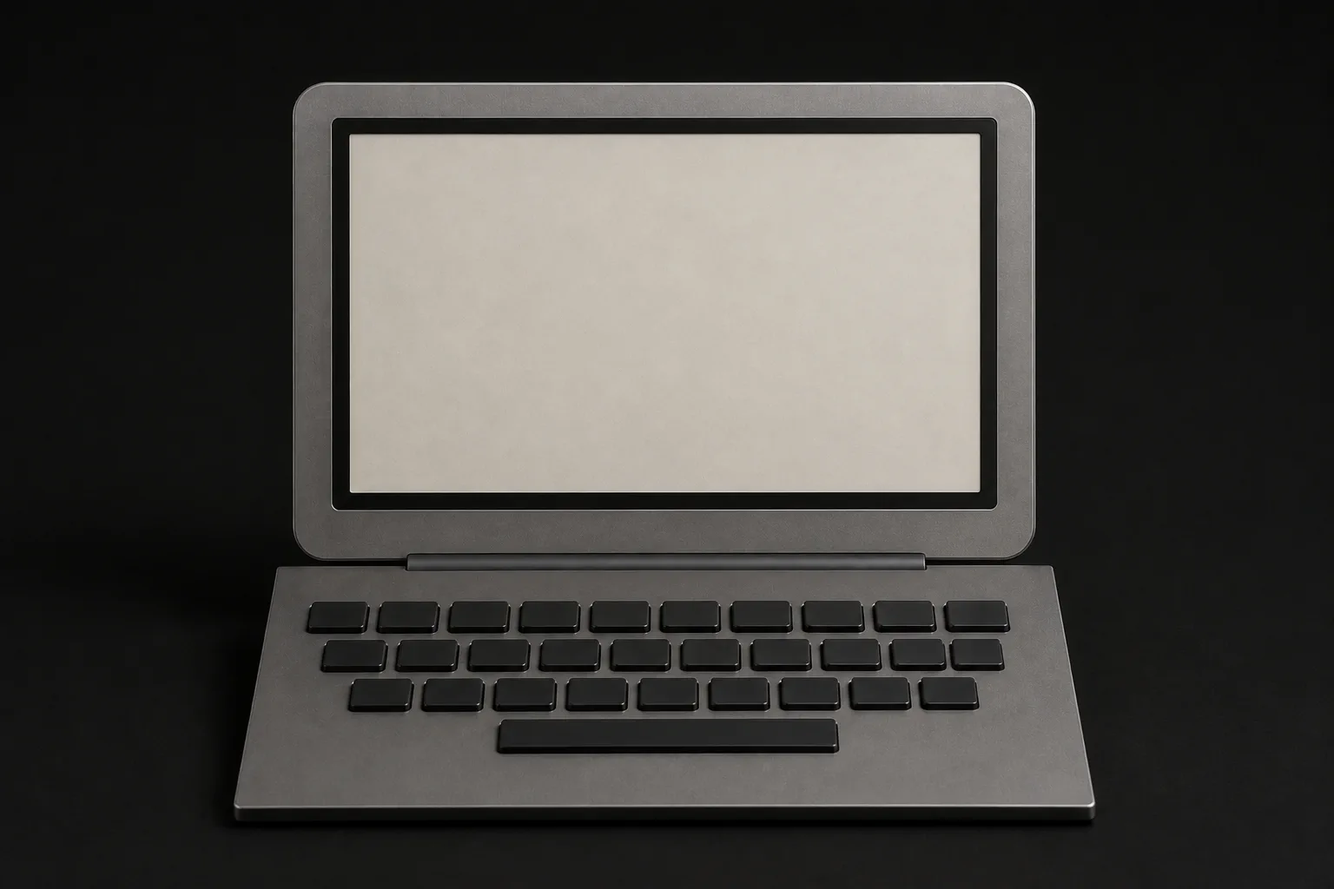
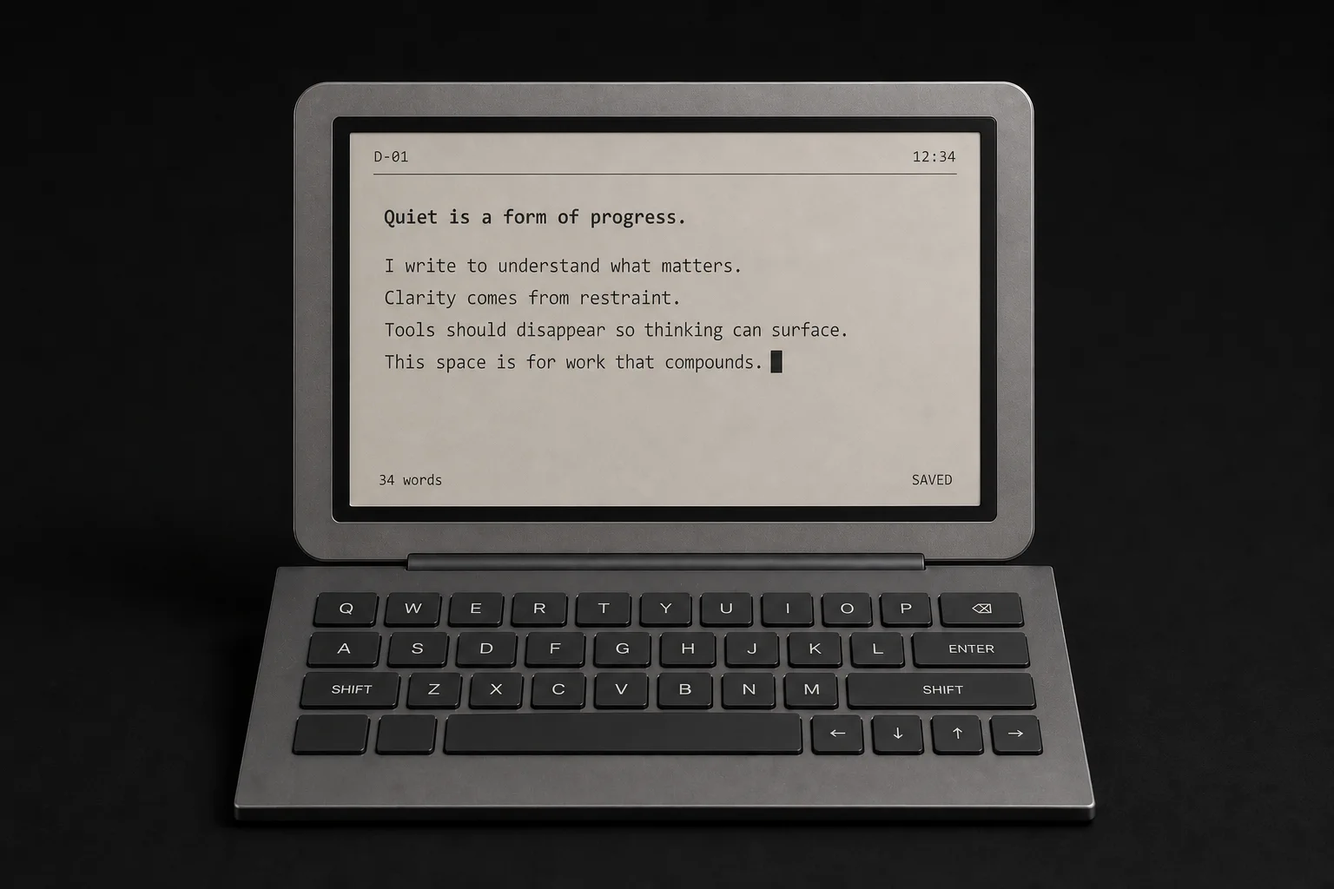
Update product renders and imagery layout

diff --git a/en.html b/en.html
@@ -10,19 +10,19 @@
 <body>
 <header class="site-header"><a class="logo" href="#top">lessware<i></i></a><nav><a href="#objects">Objects</a><a href="#principles">Principles</a><a href="#studio">Studio</a><a href="#contact">Collaborate</a><a class="lang" href="index.html">中文</a></nav></header>
 <main id="top">
-<section class="hero"><div class="hero-copy reveal"><div class="eyebrow">independent design & engineering studio / chongqing / 2026</div><h1>one thing.<br><em>at a time.</em></h1><p>LESSWARE explores focused products for reading, listening and writing — hardware and software that stay quiet, local and clearly bounded.</p><div class="actions"><a class="btn primary" href="#objects">view objects ↓</a><a class="btn link" href="#contact">build with us →</a></div></div><div class="hero-art reveal"><img src="assets/renders/l01-hero.webp" width="1448" height="1086" fetchpriority="high" alt="L–01 LISTEN palm-sized E-Ink and Hi-Fi player concept render"></div></section>
+<section class="hero"><div class="hero-copy reveal"><div class="eyebrow">independent design & engineering studio / chongqing / 2026</div><h1>one thing.<br><em>at a time.</em></h1><p>LESSWARE explores focused products for reading, listening and writing — hardware and software that stay quiet, local and clearly bounded.</p><div class="actions"><a class="btn primary" href="#objects">view objects ↓</a><a class="btn link" href="#contact">build with us →</a></div></div><div class="hero-art cutout-visual reveal"><img src="assets/renders/l01-hero.webp" width="1448" height="1086" fetchpriority="high" alt="L–01 LISTEN palm-sized E-Ink and Hi-Fi player concept render on transparent background"></div></section>
 <section id="objects" class="products">
 <nav class="object-index" aria-label="Product index"><a href="#l01"><b>01</b><span>L–01 / LISTEN</span><small>read · listen</small></a><a href="#d01"><b>02</b><span>D–01 / DRAFT</span><small>focused writing hardware</small></a><a href="#typewriter"><b>03</b><span>S–01 / TYPEWRITER</span><small>local-first writing software</small></a></nav>
 
-<article id="l01" class="product light"><div class="product-head reveal"><b>01</b><span>concept product</span><span>2026</span></div><div class="product-layout"><div class="copy reveal"><div class="eyebrow">L–01 / LISTEN</div><h2>reading.<br>music.<br><em>nothing else.</em></h2><p>A palm-sized E-Ink reader and dedicated Hi-Fi player with physical controls, local media and a metal body — reading and music in one quiet tool.</p><div class="chips"><span>E‑Ink</span><span>Hi‑Fi</span><span>physical controls</span><span>metal body</span></div></div><div class="visual reveal"><img src="assets/renders/l01-hero.webp" width="1448" height="1086" loading="lazy" decoding="async" alt="L–01 LISTEN three-quarter concept render"></div></div><div class="product-status reveal"><div><span>status</span><br><strong>concept / architecture study</strong></div><div><span>seeking</span><br><strong>electronics · audio · enclosure · manufacturing · investment</strong></div></div>
-<div class="render-gallery reveal" aria-label="L–01 concept visual set"><figure class="render-card"><img src="assets/renders/l01-front.webp" width="1448" height="1086" loading="lazy" decoding="async" alt="L–01 front concept view"><figcaption><span>01</span><b>FRONT</b></figcaption></figure><figure class="render-card"><img src="assets/renders/l01-back.webp" width="1448" height="1086" loading="lazy" decoding="async" alt="L–01 rear concept view"><figcaption><span>02</span><b>BACK</b></figcaption></figure><figure class="render-card"><img src="assets/renders/l01-side.webp" width="1448" height="1086" loading="lazy" decoding="async" alt="L–01 side profile concept view"><figcaption><span>03</span><b>PROFILE</b></figcaption></figure><figure class="render-card"><img src="assets/renders/l01-rest.webp" width="1448" height="1086" loading="lazy" decoding="async" alt="L–01 rest-state concept view"><figcaption><span>04</span><b>REST</b></figcaption></figure><figure class="render-card large"><img src="assets/renders/l01-exploded.webp" width="1448" height="1086" loading="lazy" decoding="async" alt="L–01 exploded assembly concept view"><figcaption><span>05</span><b>EXPLODED</b></figcaption></figure><figure class="render-card large"><img src="assets/renders/l01-hand.webp" width="1448" height="1086" loading="lazy" decoding="async" alt="L–01 handheld scale concept view"><figcaption><span>06</span><b>IN HAND</b></figcaption></figure><figure class="render-card large"><img src="assets/renders/l01-cmf.webp" width="1448" height="1086" loading="lazy" decoding="async" alt="L–01 CMF material concept view"><figcaption><span>07</span><b>CMF</b></figcaption></figure></div></article>
+<article id="l01" class="product light"><div class="product-head reveal"><b>01</b><span>concept product</span><span>2026</span></div><div class="product-layout"><div class="copy reveal"><div class="eyebrow">L–01 / LISTEN</div><h2>reading.<br>music.<br><em>nothing else.</em></h2><p>A palm-sized E-Ink reader and dedicated Hi-Fi player with physical controls, local media and a metal body — reading and music in one quiet tool.</p><div class="chips"><span>E‑Ink</span><span>Hi‑Fi</span><span>physical controls</span><span>metal body</span></div></div><div class="visual cutout-visual reveal"><img src="assets/renders/l01-hero.webp" width="1448" height="1086" loading="lazy" decoding="async" alt="L–01 LISTEN three-quarter concept render on transparent background"></div></div><div class="product-status reveal"><div><span>status</span><br><strong>concept / architecture study</strong></div><div><span>seeking</span><br><strong>electronics · audio · enclosure · manufacturing · investment</strong></div></div><p class="concept-note reveal">Concept visualization, not a photograph of production hardware. Form, structure and materials remain under engineering validation.</p>
+<div class="render-gallery reveal" aria-label="L–01 concept visual set"><figure class="render-card"><img src="assets/renders/l01-front.webp" width="1448" height="1086" loading="lazy" decoding="async" alt="L–01 front concept view"><figcaption><span>01</span><b>FRONT</b></figcaption></figure><figure class="render-card"><img src="assets/renders/l01-back.webp" width="1448" height="1086" loading="lazy" decoding="async" alt="L–01 rear concept view"><figcaption><span>02</span><b>BACK</b></figcaption></figure><figure class="render-card"><img src="assets/renders/l01-side.webp" width="1448" height="1086" loading="lazy" decoding="async" alt="L–01 side profile concept view"><figcaption><span>03</span><b>PROFILE</b></figcaption></figure><figure class="render-card"><img src="assets/renders/l01-rest.webp" width="1448" height="1086" loading="lazy" decoding="async" alt="L–01 rest-state concept view"><figcaption><span>04</span><b>REST</b></figcaption></figure><figure class="render-card large"><img src="assets/renders/l01-exploded.webp" width="1448" height="1086" loading="lazy" decoding="async" alt="L–01 exploded assembly concept view"><figcaption><span>05</span><b>EXPLODED</b></figcaption></figure><figure class="render-card large"><img src="assets/renders/l01-hand.webp" width="1448" height="1086" loading="lazy" decoding="async" alt="L–01 handheld scale concept view"><figcaption><span>06</span><b>IN HAND</b></figcaption></figure><figure class="render-card large"><img src="assets/renders/l01-cmf.webp" width="1448" height="1086" loading="lazy" decoding="async" alt="L–01 anodized aluminum, paperlike E-Ink, soft-touch controls and orange print CMF concept"><figcaption><span>07</span><b>CMF / ALUMINUM · PAPER DISPLAY · SOFT-TOUCH</b></figcaption></figure></div></article>
 
-<article id="d01" class="product dark"><div class="product-head reveal"><b>02</b><span>concept product</span><span>2026</span></div><div class="product-layout reverse"><div class="copy reveal"><div class="eyebrow">D–01 / DRAFT</div><h2>write first.<br><em>edit later.</em></h2><p>A foldable E-Ink writing machine. Open it, type, save locally, then export over the local network. The keyboard, screen and writing flow are the whole product.</p><div class="chips"><span>E‑Ink</span><span>physical keyboard</span><span>local storage</span><span>LAN export</span></div></div><div class="visual reveal"><img src="assets/renders/d01-hero.webp" width="1448" height="1086" loading="lazy" decoding="async" alt="D–01 DRAFT foldable E-Ink writer three-quarter concept render"></div></div><div class="product-status reveal"><div><span>status</span><br><strong>concept / interaction study</strong></div><div><span>seeking</span><br><strong>display · keyboard · enclosure · manufacturing</strong></div></div>
-<div class="render-gallery reveal" aria-label="D–01 concept visual set"><figure class="render-card"><img src="assets/renders/d01-front.webp" width="1536" height="1024" loading="lazy" decoding="async" alt="D–01 front concept view"><figcaption><span>01</span><b>FRONT</b></figcaption></figure><figure class="render-card"><img src="assets/renders/d01-back.webp" width="1448" height="1086" loading="lazy" decoding="async" alt="D–01 rear concept view"><figcaption><span>02</span><b>BACK</b></figcaption></figure><figure class="render-card"><img src="assets/renders/d01-side.webp" width="1448" height="1086" loading="lazy" decoding="async" alt="D–01 side profile concept view"><figcaption><span>03</span><b>PROFILE</b></figcaption></figure><figure class="render-card"><img src="assets/renders/d01-folded.webp" width="1448" height="1086" loading="lazy" decoding="async" alt="D–01 folded transport concept view"><figcaption><span>04</span><b>FOLDED</b></figcaption></figure><figure class="render-card large"><img src="assets/renders/d01-exploded.webp" width="1448" height="1086" loading="lazy" decoding="async" alt="D–01 exploded assembly concept view"><figcaption><span>05</span><b>EXPLODED</b></figcaption></figure><figure class="render-card large"><img src="assets/renders/d01-hand.webp" width="1448" height="1086" loading="lazy" decoding="async" alt="D–01 handheld scale concept view"><figcaption><span>06</span><b>IN HAND</b></figcaption></figure><figure class="render-card large"><img src="assets/renders/d01-cmf.webp" width="1448" height="1086" loading="lazy" decoding="async" alt="D–01 CMF material concept view"><figcaption><span>07</span><b>CMF</b></figcaption></figure></div></article>
+<article id="d01" class="product dark"><div class="product-head reveal"><b>02</b><span>concept product</span><span>2026</span></div><div class="product-layout reverse"><div class="copy reveal"><div class="eyebrow">D–01 / DRAFT</div><h2>write first.<br><em>edit later.</em></h2><p>A foldable E-Ink writing machine. Open it, type, save locally, then export over the local network. The keyboard, screen and writing flow are the whole product.</p><div class="chips"><span>E‑Ink</span><span>physical keyboard</span><span>local storage</span><span>LAN export</span></div></div><div class="visual cutout-visual reveal"><img src="assets/renders/d01-hero.webp" width="1448" height="1086" loading="lazy" decoding="async" alt="D–01 DRAFT foldable E-Ink writer three-quarter concept render on transparent background"></div></div><div class="product-status reveal"><div><span>status</span><br><strong>concept / interaction study</strong></div><div><span>seeking</span><br><strong>display · keyboard · enclosure · manufacturing</strong></div></div><p class="concept-note reveal">Concept visualization, not a photograph of production hardware. Form, structure and materials remain under engineering validation.</p>
+<div class="render-gallery reveal" aria-label="D–01 concept visual set"><figure class="render-card"><img src="assets/renders/d01-front.webp" width="1536" height="1024" loading="lazy" decoding="async" alt="D–01 front concept view"><figcaption><span>01</span><b>FRONT</b></figcaption></figure><figure class="render-card"><img src="assets/renders/d01-back.webp" width="1448" height="1086" loading="lazy" decoding="async" alt="D–01 rear concept view"><figcaption><span>02</span><b>BACK</b></figcaption></figure><figure class="render-card"><img src="assets/renders/d01-side.webp" width="1448" height="1086" loading="lazy" decoding="async" alt="D–01 side profile concept view"><figcaption><span>03</span><b>PROFILE</b></figcaption></figure><figure class="render-card"><img src="assets/renders/d01-folded.webp" width="1448" height="1086" loading="lazy" decoding="async" alt="D–01 folded transport concept view"><figcaption><span>04</span><b>FOLDED</b></figcaption></figure><figure class="render-card large"><img src="assets/renders/d01-exploded.webp" width="1448" height="1086" loading="lazy" decoding="async" alt="D–01 exploded assembly concept view"><figcaption><span>05</span><b>EXPLODED</b></figcaption></figure><figure class="render-card large"><img src="assets/renders/d01-hand.webp" width="1448" height="1086" loading="lazy" decoding="async" alt="D–01 handheld scale concept view"><figcaption><span>06</span><b>IN HAND</b></figcaption></figure><figure class="render-card large"><img src="assets/renders/d01-cmf.webp" width="1448" height="1086" loading="lazy" decoding="async" alt="D–01 anodized aluminum, paperlike E-Ink, soft-touch keyboard membrane and orange accent CMF concept"><figcaption><span>07</span><b>CMF / ALUMINUM · PAPER DISPLAY · MEMBRANE</b></figcaption></figure></div></article>
 
-<article id="typewriter" class="product software"><div class="product-head reveal"><b>03</b><span>software in development / concept visual</span><span>WINDOWS FIRST</span></div><div class="product-layout"><div class="copy reveal"><div class="eyebrow">S–01 / TYPEWRITER</div><h2>write quietly.<br><em>AI, when invited.</em></h2><p>Typewriter is a Windows-first, local-first Markdown writing app. Documents stay on the machine by default; workspaces, search, archives, autosave, version snapshots and conflict handling keep it useful without AI. When help is wanted, the writer can explicitly enable restrained suggestions, proofreading and rewriting.</p><div class="chips"><span>LOCAL FIRST</span><span>MARKDOWN</span><span>CONTROLLED AI</span><span>TAURI / WINDOWS</span></div></div><div class="visual reveal"><img src="assets/renders/typewriter-hero.webp" width="1536" height="1024" loading="lazy" decoding="async" alt="Typewriter quiet writing and restrained AI concept visual"></div></div>
+<article id="typewriter" class="product software"><div class="product-head reveal"><b>03</b><span>software in development / concept visual</span><span>WINDOWS FIRST</span></div><div class="product-layout"><div class="copy reveal"><div class="eyebrow">S–01 / TYPEWRITER</div><h2><span>write quietly.</span><span class="phrase"><em>AI, when invited.</em></span></h2><p>Typewriter is a Windows-first, local-first Markdown writing app. Documents stay on the machine by default; workspaces, search, archives, autosave, version snapshots and conflict handling keep it useful without AI. When help is wanted, the writer can explicitly enable restrained suggestions, proofreading and rewriting.</p><div class="chips"><span>LOCAL FIRST</span><span>MARKDOWN</span><span>CONTROLLED AI</span><span>TAURI / WINDOWS</span></div></div><div class="visual framed-visual reveal"><img src="assets/renders/typewriter-hero.webp" width="1536" height="960" loading="lazy" decoding="async" alt="Typewriter three-column desktop concept interface with dark sidebar, warm white editor and pale inspector"></div></div>
 <div class="software-facts reveal"><div><span>01 / Local work</span><h3>Writing works offline</h3><p>On-device documents, workspaces, Markdown and text import/export, search, archives, autosave, version snapshots and disk-conflict handling.</p></div><div><span>02 / Controlled AI</span><h3>Preview before applying</h3><p>Subtle ghost-text continuation plus proofreading, continuation, rewriting, tightening, naturalizing, expansion, ideas and summaries — always under the writer's control.</p></div><div><span>03 / Long-form support</span><h3>Check facts, don't seize the pen</h3><p>Quietly tracks characters, time, numbers and causality, preserving fact cards and conflict warnings. Style is learned only from text the writer explicitly selects.</p></div><div><span>04 / Privacy design</span><h3>AI starts off</h3><p>AI requires explicit consent and sends only the excerpt needed for the task. In the personal build, the Tauri Rust process reads the API key from a local environment variable.</p></div></div>
-<div class="product-status reveal"><div><span>status</span><br><strong>personal development build / desktop prototype</strong></div><div><span>direction</span><br><strong>writing tools · desktop experience · local software · AI interaction</strong></div></div><div class="render-gallery editorial reveal" aria-label="Typewriter concept visual set"><figure class="render-card large"><img src="assets/renders/typewriter-consistency.webp" width="1536" height="1024" loading="lazy" decoding="async" alt="Typewriter character, time, number and causality consistency concept visual"><figcaption><span>01</span><b>CONSISTENCY</b></figcaption></figure><figure class="render-card large"><img src="assets/renders/typewriter-local.webp" width="1536" height="1024" loading="lazy" decoding="async" alt="Typewriter local-first private workspace concept visual"><figcaption><span>02</span><b>LOCAL FIRST</b></figcaption></figure></div></article>
+<div class="product-status reveal"><div><span>status</span><br><strong>personal development build / desktop prototype</strong></div><div><span>direction</span><br><strong>writing tools · desktop experience · local software · AI interaction</strong></div></div><div class="render-gallery editorial reveal" aria-label="Typewriter concept visual set"><figure class="render-card large"><img src="assets/renders/typewriter-consistency.webp" width="1536" height="960" loading="lazy" decoding="async" alt="Typewriter editor and inspector concept interface for character, time, number and causality consistency"><figcaption><span>01</span><b>CONSISTENCY</b></figcaption></figure><figure class="render-card large"><img src="assets/renders/typewriter-local.webp" width="1536" height="960" loading="lazy" decoding="async" alt="Typewriter local documents, autosave, version snapshots and connection-state concept interface"><figcaption><span>02</span><b>LOCAL FIRST</b></figcaption></figure></div></article>
 </section>
 <section id="principles" class="philosophy section"><div class="philosophy-title reveal"><div class="eyebrow">WHY LESSWARE</div><h2>less interface.<br>more <em>intention.</em></h2></div><div class="principles"><div class="principle reveal"><span>01</span><h3>Dedicated</h3><p>One object starts with one clear human activity. The boundary is part of the design.</p></div><div class="principle reveal"><span>02</span><h3>Physical</h3><p>Buttons, wheels, keyboards and hinges give interaction a shape you can remember.</p></div><div class="principle reveal"><span>03</span><h3>Local</h3><p>Core functions and files stay useful locally, reducing dependence on accounts, feeds and cloud services.</p></div><div class="principle reveal"><span>04</span><h3>Buildable</h3><p>Industrial design, electronics, embedded software and interaction are considered together from the first sketch.</p></div></div></section>
 <section id="studio" class="studio section"><div class="eyebrow reveal">LESSWARE / STUDIO</div><div class="studio-copy reveal"><h2>ideas deserve<br><em>engineering.</em></h2><p>LESSWARE is an independent product initiative exploring focused hardware, local-first software, industrial design, embedded systems and interaction. Concepts are developed toward prototypes, engineering and real use.</p></div><div class="capabilities reveal"><span>industrial design</span><span>embedded systems</span><span>electronics</span><span>interaction</span><span>software</span><span>prototyping</span></div></section>

diff --git a/index.html b/index.html
@@ -15,7 +15,7 @@
 <section class="hero">
 <div class="hero-copy reveal"><div class="eyebrow">独立设计与工程工作室 / 重庆 / 2026</div><h1>一次，<br>只做<em>一件事。</em></h1><p>LESSWARE 探索低干扰、边界清晰的专用产品：阅读、聆听与写作，让硬件和软件都退回工具本身。</p>
 <div class="actions"><a class="btn primary" href="#objects">查看产品 ↓</a><a class="btn link" href="#contact">与我们合作 →</a></div></div>
-<div class="hero-art reveal"><img src="assets/renders/l01-hero.webp" width="1448" height="1086" fetchpriority="high" alt="L–01 LISTEN 掌上墨水屏与 Hi-Fi 播放器概念渲染"></div>
+<div class="hero-art cutout-visual reveal"><img src="assets/renders/l01-hero.webp" width="1448" height="1086" fetchpriority="high" alt="L–01 LISTEN 掌上墨水屏与 Hi-Fi 播放器透明背景概念渲染"></div>
 </section>
 
 <section id="objects" class="products">
@@ -29,8 +29,9 @@
 <div class="product-head reveal"><b>01</b><span>概念产品</span><span>2026</span></div>
 <div class="product-layout"><div class="copy reveal"><div class="eyebrow">L–01 / LISTEN</div><h2>阅读。<br>音乐。<br><em>仅此而已。</em></h2><p>一台掌心大小的墨水屏阅读与 Hi‑Fi 播放设备。实体按键、音量滚轮、本地媒体和金属机身，把阅读与音乐留在同一件安静的工具里。</p>
 <div class="chips"><span>E‑Ink</span><span>Hi‑Fi</span><span>实体控制</span><span>金属机身</span></div></div>
-<div class="visual reveal"><img src="assets/renders/l01-hero.webp" width="1448" height="1086" loading="lazy" decoding="async" alt="L–01 LISTEN 45 度产品概念渲染"></div></div>
+<div class="visual cutout-visual reveal"><img src="assets/renders/l01-hero.webp" width="1448" height="1086" loading="lazy" decoding="async" alt="L–01 LISTEN 45 度透明背景产品概念渲染"></div></div>
 <div class="product-status reveal"><div><span>阶段</span><br><strong>概念设计 / 架构研究</strong></div><div><span>寻求</span><br><strong>电子 · 音频 · 结构 · 制造 · 投资</strong></div></div>
+<p class="concept-note reveal">概念视觉，非实机照片。造型、结构与材料仍在工程验证中。</p>
 <div class="render-gallery reveal" aria-label="L–01 概念视觉集">
 <figure class="render-card"><img src="assets/renders/l01-front.webp" width="1448" height="1086" loading="lazy" decoding="async" alt="L–01 正视概念图"><figcaption><span>01</span><b>正视 / FRONT</b></figcaption></figure>
 <figure class="render-card"><img src="assets/renders/l01-back.webp" width="1448" height="1086" loading="lazy" decoding="async" alt="L–01 背面概念图"><figcaption><span>02</span><b>背面 / BACK</b></figcaption></figure>
@@ -38,7 +39,7 @@
 <figure class="render-card"><img src="assets/renders/l01-rest.webp" width="1448" height="1086" loading="lazy" decoding="async" alt="L–01 静置状态概念图"><figcaption><span>04</span><b>静置 / REST</b></figcaption></figure>
 <figure class="render-card large"><img src="assets/renders/l01-exploded.webp" width="1448" height="1086" loading="lazy" decoding="async" alt="L–01 爆炸结构概念图"><figcaption><span>05</span><b>结构 / EXPLODED</b></figcaption></figure>
 <figure class="render-card large"><img src="assets/renders/l01-hand.webp" width="1448" height="1086" loading="lazy" decoding="async" alt="手持 L–01 的尺寸比例概念图"><figcaption><span>06</span><b>比例 / IN HAND</b></figcaption></figure>
-<figure class="render-card large"><img src="assets/renders/l01-cmf.webp" width="1448" height="1086" loading="lazy" decoding="async" alt="L–01 CMF 材料概念图"><figcaption><span>07</span><b>材料 / CMF</b></figcaption></figure>
+<figure class="render-card large"><img src="assets/renders/l01-cmf.webp" width="1448" height="1086" loading="lazy" decoding="async" alt="L–01 阳极氧化铝、纸感墨水屏、软触按键与橙色印刷点 CMF 概念图"><figcaption><span>07</span><b>材料 / 铝 · 纸感屏 · 软触按键</b></figcaption></figure>
 </div>
 </article>
 
@@ -46,8 +47,9 @@
 <div class="product-head reveal"><b>02</b><span>概念产品</span><span>2026</span></div>
 <div class="product-layout reverse"><div class="copy reveal"><div class="eyebrow">D–01 / DRAFT</div><h2>先写。<br><em>以后再改。</em></h2><p>一台可折叠收纳的墨水屏写作机器。打开、输入、本地保存，再通过局域网导出文件。键盘、屏幕和写作本身构成完整功能。</p>
 <div class="chips"><span>E‑Ink</span><span>实体键盘</span><span>本地存储</span><span>局域网导出</span></div></div>
-<div class="visual reveal"><img src="assets/renders/d01-hero.webp" width="1448" height="1086" loading="lazy" decoding="async" alt="D–01 DRAFT 折叠墨水屏写作机 45 度概念渲染"></div></div>
+<div class="visual cutout-visual reveal"><img src="assets/renders/d01-hero.webp" width="1448" height="1086" loading="lazy" decoding="async" alt="D–01 DRAFT 折叠墨水屏写作机 45 度透明背景概念渲染"></div></div>
 <div class="product-status reveal"><div><span>阶段</span><br><strong>概念设计 / 交互研究</strong></div><div><span>寻求</span><br><strong>墨水屏 · 键盘 · 结构 · 制造</strong></div></div>
+<p class="concept-note reveal">概念视觉，非实机照片。造型、结构与材料仍在工程验证中。</p>
 <div class="render-gallery reveal" aria-label="D–01 概念视觉集">
 <figure class="render-card"><img src="assets/renders/d01-front.webp" width="1536" height="1024" loading="lazy" decoding="async" alt="D–01 正视概念图"><figcaption><span>01</span><b>正视 / FRONT</b></figcaption></figure>
 <figure class="render-card"><img src="assets/renders/d01-back.webp" width="1448" height="1086" loading="lazy" decoding="async" alt="D–01 背面概念图"><figcaption><span>02</span><b>背面 / BACK</b></figcaption></figure>
@@ -55,15 +57,15 @@
 <figure class="render-card"><img src="assets/renders/d01-folded.webp" width="1448" height="1086" loading="lazy" decoding="async" alt="D–01 折叠收纳状态概念图"><figcaption><span>04</span><b>折叠 / FOLDED</b></figcaption></figure>
 <figure class="render-card large"><img src="assets/renders/d01-exploded.webp" width="1448" height="1086" loading="lazy" decoding="async" alt="D–01 爆炸结构概念图"><figcaption><span>05</span><b>结构 / EXPLODED</b></figcaption></figure>
 <figure class="render-card large"><img src="assets/renders/d01-hand.webp" width="1448" height="1086" loading="lazy" decoding="async" alt="双手托住折叠 D–01 的尺寸比例概念图"><figcaption><span>06</span><b>比例 / IN HAND</b></figcaption></figure>
-<figure class="render-card large"><img src="assets/renders/d01-cmf.webp" width="1448" height="1086" loading="lazy" decoding="async" alt="D–01 CMF 材料概念图"><figcaption><span>07</span><b>材料 / CMF</b></figcaption></figure>
+<figure class="render-card large"><img src="assets/renders/d01-cmf.webp" width="1448" height="1086" loading="lazy" decoding="async" alt="D–01 阳极氧化铝、纸感墨水屏、软触键盘膜片与橙色点缀 CMF 概念图"><figcaption><span>07</span><b>材料 / 铝 · 纸感屏 · 软触膜片</b></figcaption></figure>
 </div>
 </article>
 
 <article id="typewriter" class="product software">
 <div class="product-head reveal"><b>03</b><span>开发中软件 / 概念视觉</span><span>WINDOWS FIRST</span></div>
-<div class="product-layout"><div class="copy reveal"><div class="eyebrow">S–01 / TYPEWRITER</div><h2>安静地写。<br><em>需要时，AI 出现。</em></h2><p>Typewriter 是一款 Windows 优先、本地优先的 Markdown 写作应用。文档默认保存在本机；工作区、搜索、归档、自动保存、版本快照和冲突处理让它在没有 AI 时也能完整工作。需要帮助时，再明确开启克制的续写、校对与改写。</p>
+<div class="product-layout"><div class="copy reveal"><div class="eyebrow">S–01 / TYPEWRITER</div><h2><span>安静地写。</span><span class="phrase"><em>需要时，AI 出现。</em></span></h2><p>Typewriter 是一款 Windows 优先、本地优先的 Markdown 写作应用。文档默认保存在本机；工作区、搜索、归档、自动保存、版本快照和冲突处理让它在没有 AI 时也能完整工作。需要帮助时，再明确开启克制的续写、校对与改写。</p>
 <div class="chips"><span>LOCAL FIRST</span><span>MARKDOWN</span><span>可控 AI</span><span>TAURI / WINDOWS</span></div></div>
-<div class="visual reveal"><img src="assets/renders/typewriter-hero.webp" width="1536" height="1024" loading="lazy" decoding="async" alt="Typewriter 安静写作与克制 AI 的概念视觉"></div></div>
+<div class="visual framed-visual reveal"><img src="assets/renders/typewriter-hero.webp" width="1536" height="960" loading="lazy" decoding="async" alt="Typewriter 三栏桌面应用概念界面：深色侧栏、暖白编辑区与浅灰检查器"></div></div>
 <div class="software-facts reveal">
 <div><span>01 / 本地工作</span><h3>离线也能写</h3><p>本机保存、工作区、Markdown / 文本导入导出、搜索、归档、自动保存、版本快照与磁盘冲突处理。</p></div>
 <div><span>02 / 可控 AI</span><h3>先预览，再应用</h3><p>灰字续写，以及校对、续写、改写、简洁化、自然化、扩写、想法与总结；正文变化始终由用户确认。</p></div>
@@ -72,8 +74,8 @@
 </div>
 <div class="product-status reveal"><div><span>阶段</span><br><strong>个人开发版 / 桌面原型</strong></div><div><span>方向</span><br><strong>写作工具 · 桌面体验 · 本地软件 · AI 交互</strong></div></div>
 <div class="render-gallery editorial reveal" aria-label="Typewriter 概念视觉集">
-<figure class="render-card large"><img src="assets/renders/typewriter-consistency.webp" width="1536" height="1024" loading="lazy" decoding="async" alt="Typewriter 人物、时间、数字与因果一致性检查概念图"><figcaption><span>01</span><b>一致性 / CONSISTENCY</b></figcaption></figure>
-<figure class="render-card large"><img src="assets/renders/typewriter-local.webp" width="1536" height="1024" loading="lazy" decoding="async" alt="Typewriter 本地优先私人工作区概念图"><figcaption><span>02</span><b>本地优先 / LOCAL FIRST</b></figcaption></figure>
+<figure class="render-card large"><img src="assets/renders/typewriter-consistency.webp" width="1536" height="960" loading="lazy" decoding="async" alt="Typewriter 编辑器与右侧人物、时间、数字和因果一致性检查概念界面"><figcaption><span>01</span><b>一致性 / CONSISTENCY</b></figcaption></figure>
+<figure class="render-card large"><img src="assets/renders/typewriter-local.webp" width="1536" height="960" loading="lazy" decoding="async" alt="Typewriter 左侧本地文档、自动保存、版本快照与连接状态概念界面"><figcaption><span>02</span><b>本地优先 / LOCAL FIRST</b></figcaption></figure>
 </div>
 </article>
 </section>

diff --git a/styles.css b/styles.css
@@ -4,3 +4,27 @@
 
 @media(max-width:900px){.object-index{grid-template-columns:1fr;padding-top:30px;padding-bottom:30px}.object-index a{margin:0 0 -1px}.render-gallery{grid-template-columns:repeat(2,1fr)}.render-card.large{grid-column:span 2}.software-facts{grid-template-columns:1fr 1fr}.software-facts>div{border-bottom:1px solid currentColor}.software-facts>div:nth-child(2){border-right:0}.software-facts>div:nth-child(3){padding-left:0}.software-facts>div:nth-last-child(-n+2){border-bottom:0}}
 @media(max-width:600px){.object-index{padding-left:5vw;padding-right:5vw}.render-gallery,.render-gallery.editorial{grid-template-columns:1fr;margin-left:-5vw;margin-right:-5vw}.render-card.large{grid-column:span 1}.software-facts{grid-template-columns:1fr}.software-facts>div,.software-facts>div+div,.software-facts>div:nth-child(3){padding:22px 0;border-right:0;border-bottom:1px solid currentColor}.software-facts>div:last-child{border-bottom:0}.software h2{font-size:clamp(48px,14vw,76px)}}
+
+/* Product imagery modes: hardware floats as an alpha cutout; software stays framed. */
+.cutout-visual{background:transparent;isolation:isolate}
+.cutout-visual img{object-fit:contain!important;object-position:center;background:transparent;filter:drop-shadow(0 28px 28px rgba(17,18,15,.13))}
+.product.dark .cutout-visual img{filter:drop-shadow(0 30px 32px rgba(0,0,0,.38))}
+.framed-visual{aspect-ratio:16/10;height:auto;padding:10px;background:#151612;border:1px solid rgba(236,235,228,.28);box-shadow:0 24px 60px rgba(0,0,0,.28);overflow:hidden}
+.software .framed-visual img{width:100%;height:100%!important;aspect-ratio:16/10;object-fit:contain!important;object-position:center;background:#151612}
+.software h2{font-size:clamp(40px,4vw,64px)}
+.software h2>span{display:block}
+.software h2 .phrase{white-space:nowrap;font-size:.78em;letter-spacing:-.06em}
+.concept-note{margin:18px 0 0;font-family:"SFMono-Regular",Consolas,monospace;font-size:9px;line-height:1.6;text-transform:uppercase;letter-spacing:.02em;opacity:.5}
+.render-gallery.editorial .render-card img{aspect-ratio:16/10;object-fit:contain;background:#151612}
+.render-card figcaption b{line-height:1.4}
+
+@media(max-width:600px){
+  .hero-art.cutout-visual img{height:390px}
+  .cutout-visual{margin:18px 0}
+  .framed-visual{margin:28px 0;padding:5px}
+  .software h2{font-size:clamp(38px,10.3vw,48px)}
+  .software h2 .phrase{font-size:.76em}
+  #l01 .render-gallery,#d01 .render-gallery{display:flex;grid-template-columns:none;gap:12px;margin-left:-5vw;margin-right:-5vw;padding:0 5vw 14px;background:transparent;border:0;overflow-x:auto;overscroll-behavior-inline:contain;scroll-snap-type:x mandatory;scroll-padding-inline:5vw;scrollbar-width:none}
+  #l01 .render-gallery::-webkit-scrollbar,#d01 .render-gallery::-webkit-scrollbar{display:none}
+  #l01 .render-card,#d01 .render-card,#l01 .render-card.large,#d01 .render-card.large{flex:0 0 84vw;grid-column:auto;border:1px solid currentColor;scroll-snap-align:start;scroll-snap-stop:always}
+}
